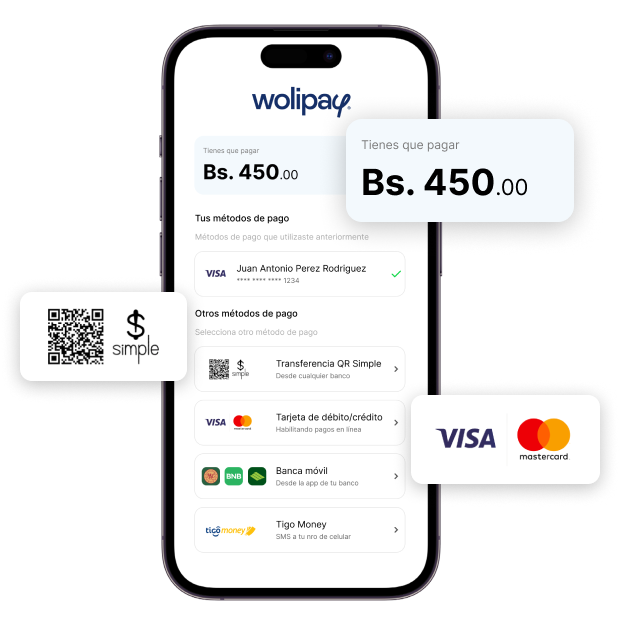
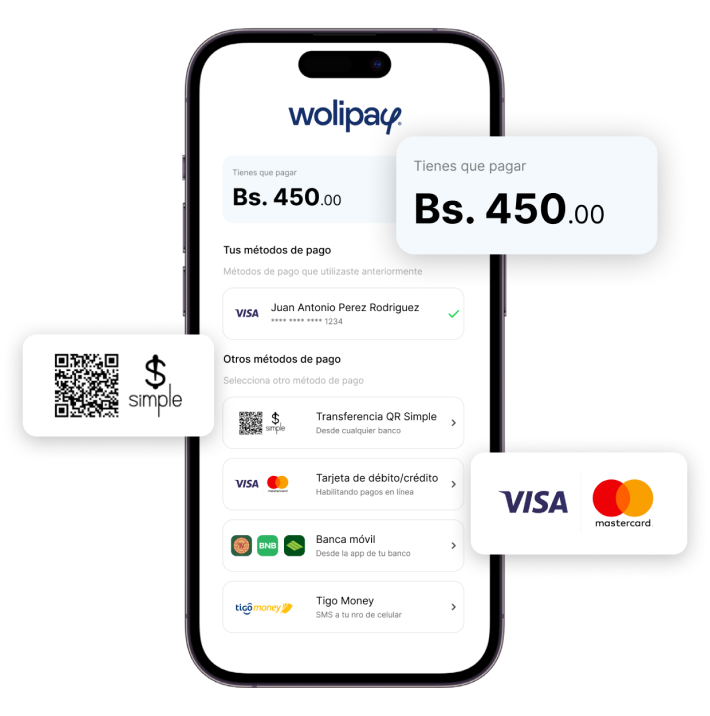
finished styles to mobile

diff --git a/src/components/HomePage.tsx b/src/components/HomePage.tsx
@@ -1,36 +1,51 @@
+import WolipayLogo from '../assets/wolipay-logo.png'
 import Stroke from '../assets/stroke.png'
 import HomeImage from '../assets/home-image.png'
+import HomeMobileImage from '../assets/homeImageMobile.png'
 
 function HomePage() {
   return (
     <main className='w-full min-h-screen flex flex-col md:grid-cols-home md:grid'>
-      <div className='flex flex-col justify-center bg-[#152F68] p-8 md:py-20 md:pt-8 md:px-12'>
-        <div className='self-end my-auto grid gap-8'>
-          <h2 className='max-w-md text-6xl text-white font-bold font-body pr-20'>
-            La forma más fácil de recibir pagos en linea
-          </h2>
-          <p className='text-lg max-w-md pr-32'>
-            Recibe pagos en línea, de manera fácil y segura,
-            administra tu dinero con Wolipay.
-          </p>
-          <a
-            href='#'
-            className='w-44 bg-[#89C9E7] text-[#152F68] text-lg text-center rounded-3xl font-bold font-body py-3'
-          >
-            Me interesa
-          </a>
+      <div className='flex flex-col justify-center bg-[#152F68] p-8 py-14 md:py-20 md:pt-8 md:px-12'>
+        <div className='h-full self-end my-auto grid gap-10 md:gap-8 place-content-between'>
+          <img
+            className='w-28 h-auto md:w-40 self-center mb-10 md:mb-0'
+            src={WolipayLogo}
+            alt='wolipay logo'
+          />
+          <div className='self-end my-auto grid gap-10 md:gap-8'>
+            <h2 className='max-w-md text-5xl text-white font-bold font-body lg:text-6xl md:pr-20'>
+              La forma <br /> más fácil de recibir pagos en linea
+            </h2>
+            <p className='text-base max-w-md pr-12 md:pr-32 md:text-lg'>
+              Recibe pagos en línea, de manera fácil y segura,
+              administra tu dinero con Wolipay.
+            </p>
+            <a
+              href='#'
+              className='w-44 bg-[#89C9E7] text-[#152F68] text-lg text-center rounded-3xl font-bold font-body py-2 md:py-3'
+            >
+              Me interesa
+            </a>
+          </div>
+          <div />
         </div>
       </div>
-      <div className='w-full max-h-screen flex overflow-hidden'>
+      <div className='w-full h-full md:max-h-screen flex overflow-hidden'>
         <img
-          className='w-full h-full mx-auto object-contain object-right z-10 absolute inset-0'
+          className='hidden w-full h-full mx-auto object-contain object-right z-10 absolute inset-0 md:flex'
           src={Stroke}
           alt='stroke'
         />
         <img
           src={HomeImage}
           alt=''
-          className='w-[60%] h-full absolute -z-10 object-cover brightness-75'
+          className='hidden w-full h-full absolute -z-10 object-cover brightness-75 md:block md:w-[60%]'
+        />
+        <img
+          src={HomeMobileImage}
+          alt=''
+          className='w-full max-w-full h-full object-cover brightness-90 md:hidden'
         />
       </div>
     </main>

diff --git a/src/components/Integrate.tsx b/src/components/Integrate.tsx
@@ -2,20 +2,20 @@ import CodeImg from '../assets/codeImg.png'
 import MethodsImg from '../assets/methods.png'
 function Integrate() {
   return (
-    <div className='h-full grid grid-cols-2 bg-[#1E1E1E] relative'>
-      <div className='flex flex-col p-20 justify-center items-end'>
+    <div className='relative h-full flex flex-col bg-[#1E1E1E] md:grid md:grid-cols-2'>
+      <div className='flex flex-col py-14 px-6 justify-center items-end md:p-20'>
         <div className='flex flex-col gap-6 '>
           <h3 className='text-[#89C9E7] uppercase text-md'>
             INTEGRACIÓN
           </h3>
-          <p className='text-4xl font-body max-w-lg pr-10'>
+          <p className='text-3xl font-body max-w-lg pr-10 md:text-4xl'>
             Empieza a{' '}
             <span className='text-[#89C9E7] font-semibold'>
               vender en línea
             </span>{' '}
             tengas o no una página web.{' '}
           </p>
-          <p className='max-w-md text-[#E0E0E0] text-lg pr-4'>
+          <p className='max-w-md text-[#E0E0E0] text-base md:text-lg md:pr-4'>
             Integra y administra todo desde nuestra plataforma, genera
             links de pago sin necesidad de una sola línea de código o
             integra de manera sencilla tu sitio web con nuestro API.
@@ -31,7 +31,7 @@ function Integrate() {
         <img
           src={MethodsImg}
           alt='methods image'
-          className='object-cover absolute z-50 top-[50%] -translate-y-[50%] left-5'
+          className='object-cover absolute z-50 top-[50%] -translate-y-[50%] md:left-5 md:w-2/3'
         />
       </div>
     </div>

diff --git a/src/components/AboutUsPage.tsx b/src/components/AboutUsPage.tsx
@@ -2,26 +2,29 @@ import MobileImage from '../assets/woliMobileImage.png'
 
 function AboutUsPage() {
   return (
-    <div className='grid grid-cols-2 my-14 text-black px-12' id='nosotros'>
-      <div className='w-full pl-32 self-end'>
+    <div
+      className='flex flex-col-reverse text-black px-4 my-12 md:my-14 md:px-12 md:grid md:grid-cols-2'
+      id='nosotros'
+    >
+      <div className='w-full self-end md:pl-32'>
         <img
           src={MobileImage}
           alt='card image'
           className='object-cover'
         />
       </div>
-      <div className='flex flex-col gap-6 p-20 justify-center'>
+      <div className='flex flex-col p-4 mb-8 gap-6 justify-center md:p-20 md:mb-0'>
         <h3 className='text-[#89C9E7] uppercase text-md'>
           MÉTODOS DE PAGO
         </h3>
-        <p className='text-4xl font-body max-w-lg pr-10'>
+        <p className='w-full text-3xl font-body max-w-lg md:pr-10 leading-8'>
           Acepta los{' '}
           <span className='text-[#152F68] font-semibold'>
             métodos de pago
           </span>{' '}
           más utilizados en Bolivia.{' '}
         </p>
-        <p className='max-w-md text-[#AAAAAA] text-lg'>
+        <p className='max-w-md text-[#AAAAAA] text-base md:text-lg'>
           Wolipay ofrece a tus clientes la posibilidad de pagar
           utilizando todos los métodos de pago disponibles para que
           nada te aleje de esa venta que quieres lograr.

diff --git a/src/components/ReturnsPage.tsx b/src/components/ReturnsPage.tsx
@@ -3,7 +3,7 @@ import ReturnImg from '../assets/returnsImg.png'
 function ReturnsPage() {
   return (
     <div
-      className='flex items-center text-black gap-32'
+      className='flex flex-col-reverse items-center text-black gap-8 md:gap-32 md:flex-row'
       id='nosotros'
     >
       <div className='h-full'>
@@ -13,18 +13,18 @@ function ReturnsPage() {
           className='object-cover'
         />
       </div>
-      <div className='flex flex-col gap-6 justify-center'>
+      <div className='flex flex-col gap-6 justify-center py-12 px-5 md:p-0'>
         <h3 className='text-[#89C9E7] uppercase text-md'>
           Devoluciones
         </h3>
-        <p className='text-4xl font-body max-w-3xl pr-2'>
+        <p className='text-3xl font-body max-w-3xl pr-2 md:text-4xl'>
           Incrementa tus ventas con{' '}
           <span className='text-[#152F68] font-semibold'>
             políticas de devolución
           </span>{' '}
           y gestiona todo desde Wolipay.{' '}
         </p>
-        <p className='max-w-2xl text-[#AAAAAA] text-lg'>
+        <p className='max-w-2xl text-[#AAAAAA] text-base pr-5 md:text-lg md:pr-0'>
           Optimiza tus ventas con políticas de devolución efectivas.
           Incrementa la confianza del cliente al ofrecer devoluciones
           fáciles. Gestiona todo de manera conveniente desde nuestra

diff --git a/src/components/ReportsPage.tsx b/src/components/ReportsPage.tsx
@@ -2,20 +2,20 @@ import PartnerImage from '../assets/partnerImage.png'
 
 function ReportsPage() {
   return (
-    <div className='grid grid-cols-2 mt-10 text-black bg-[#89C8E71A]'>
-      <div className='flex flex-col gap-6 p-20 justify-center items-end pr-12'>
+    <div className='flex flex-col mt-4 md:mt-10 text-black bg-[#89C8E71A] md:grid md:grid-cols-2'>
+      <div className='flex flex-col gap-6 pt-14 pb-8 px-6 justify-center items-end md:pr-12 md:p-20'>
         <div className='flex flex-col gap-6'>
           <h3 className='text-[#152F68] uppercase text-md'>
             REPORTES
           </h3>
-          <p className='text-4xl font-body max-w-lg pr-10'>
+          <p className='text-3xl font-body max-w-lg md:pr-10 md:text-4xl'>
             Analiza tus ventas en{' '}
             <span className='text-[#152F68] font-semibold'>
               tiempo real
             </span>{' '}
             y administra tus cobros.{' '}
           </p>
-          <p className='max-w-md text-[#7B7B7B] text-lg'>
+          <p className='max-w-md text-[#7B7B7B] md:text-lg'>
             Optimiza tus ventas con análisis en tiempo real y controla
             tus cobros de manera eficiente. Toma decisiones
             informadas, identifica oportunidades y maximiza el

diff --git a/src/components/Footer.tsx b/src/components/Footer.tsx
@@ -3,10 +3,13 @@ import InstagramIcon from '../assets/Instagram.png'
 
 function Footer() {
   return (
-    <footer className='w-full max-w-5xl mx-auto py-6 pr-5 text-black flex items-center justify-between border-t-[1px] border-[#D9D9D9]'>
-      <p className='text-sm text-black'>
-        Copyright 2023 ® Wolipay | Marca de Wolivin Group S.A.
-      </p>
+    <footer className='w-[90%] max-w-5xl mx-auto py-6 md:pr-5 md:w-full text-black flex items-center justify-between border-t-[1px] border-[#D9D9D9]'>
+      <div className='flex flex-col gap-2 md:flex-row'>
+        <p className='text-xs font-semibold text-black gap-2 flex'>
+          Copyright 2023 ® Wolipay <span className='hidden md:block text-[#89C9E7]'>|</span>
+        </p>
+        <p className='text-xs text-[#7B7B7B]'>Marca de Wolivin Group S.A.</p>
+      </div>
       <div className='flex items-center gap-4'>
         <img
           className='w-7 h-7 cursor-pointer'

diff --git a/src/components/Header.tsx b/src/components/Header.tsx
@@ -1,15 +1,8 @@
-import WolipayLogo from '../assets/wolipay-logo.png'
-
 function Header() {
   return (
     <header className='w-full h-auto max-w-[1390px] flex absolute top-0 z-50 self-center'>
-      <div className='w-full flex items-center justify-between py-1 px-2'>
-        <img
-          className='w-28 h-auto md:w-40 -mb-20'
-          src={WolipayLogo}
-          alt='wolipay logo'
-        />
-        <nav className='w-full font-body z-50'>
+      <div className='w-full flex items-center justify-between py-1 px-8 md:px-2'>
+        <nav className='w-full font-body z-50 hidden md:block'>
           <ul className='w-full flex gap-8 py-5 px-10 justify-end items-center font-bold'>
             <a href='#features'>
               <li className='max-h-max cursor-pointer relative group transition-all duration-300'>

diff --git a/src/App.tsx b/src/App.tsx
@@ -11,7 +11,7 @@ import Header from './components/Header'
 
 function App() {
   return (
-    <div className='flex flex-col'>
+    <div className='w-full flex flex-col'>
       <Header />
       <HomePage />
       <AboutUsPage />
@@ -21,12 +21,7 @@ function App() {
       <div id='contacto'>
         <Widget
           id='vk9y0dLS'
-          style={{
-            width: '70%',
-            height: '600px',
-            margin: '7rem auto 4rem',
-          }}
-          className='my-form'
+          className='my-form w-[90%] md:w-[70%] h-[600px] mt-16 md:mt-28 mx-auto mb-16'
         />
         <div className='w-full flex flex-col gap-3 items-center mx-auto text-black mb-16'>
           <p className='flex items-center gap-2'>

diff --git a/src/index.css b/src/index.css
@@ -36,6 +36,7 @@ body {
 #root {
   width: 100%;
   min-height: 100vh;
+  overflow: hidden;
 }
 
 div {
